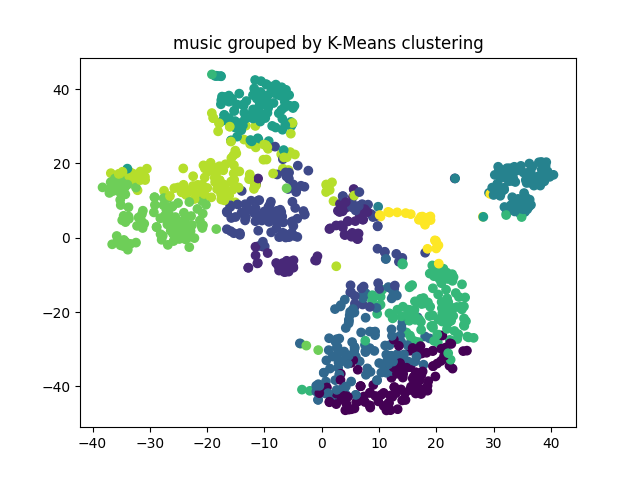
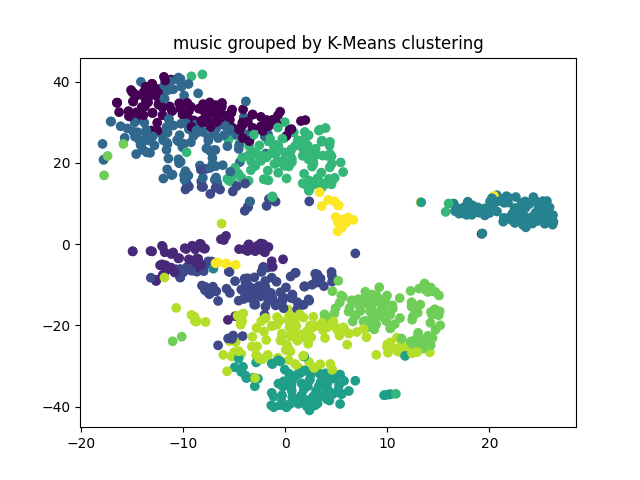
changed perplexity for tsne

diff --git a/src/main.py b/src/main.py
@@ -40,7 +40,7 @@ for file in os.listdir(embeding_dir):
     i += 1
 print(emb_list.shape)
 
-pca = TSNE(n_components=2, early_exaggeration = 30)
+pca = TSNE(n_components=2,perplexity=50, early_exaggeration = 30)
 x=pca.fit_transform(emb_list)
 
 label_encoder = LabelEncoder()
